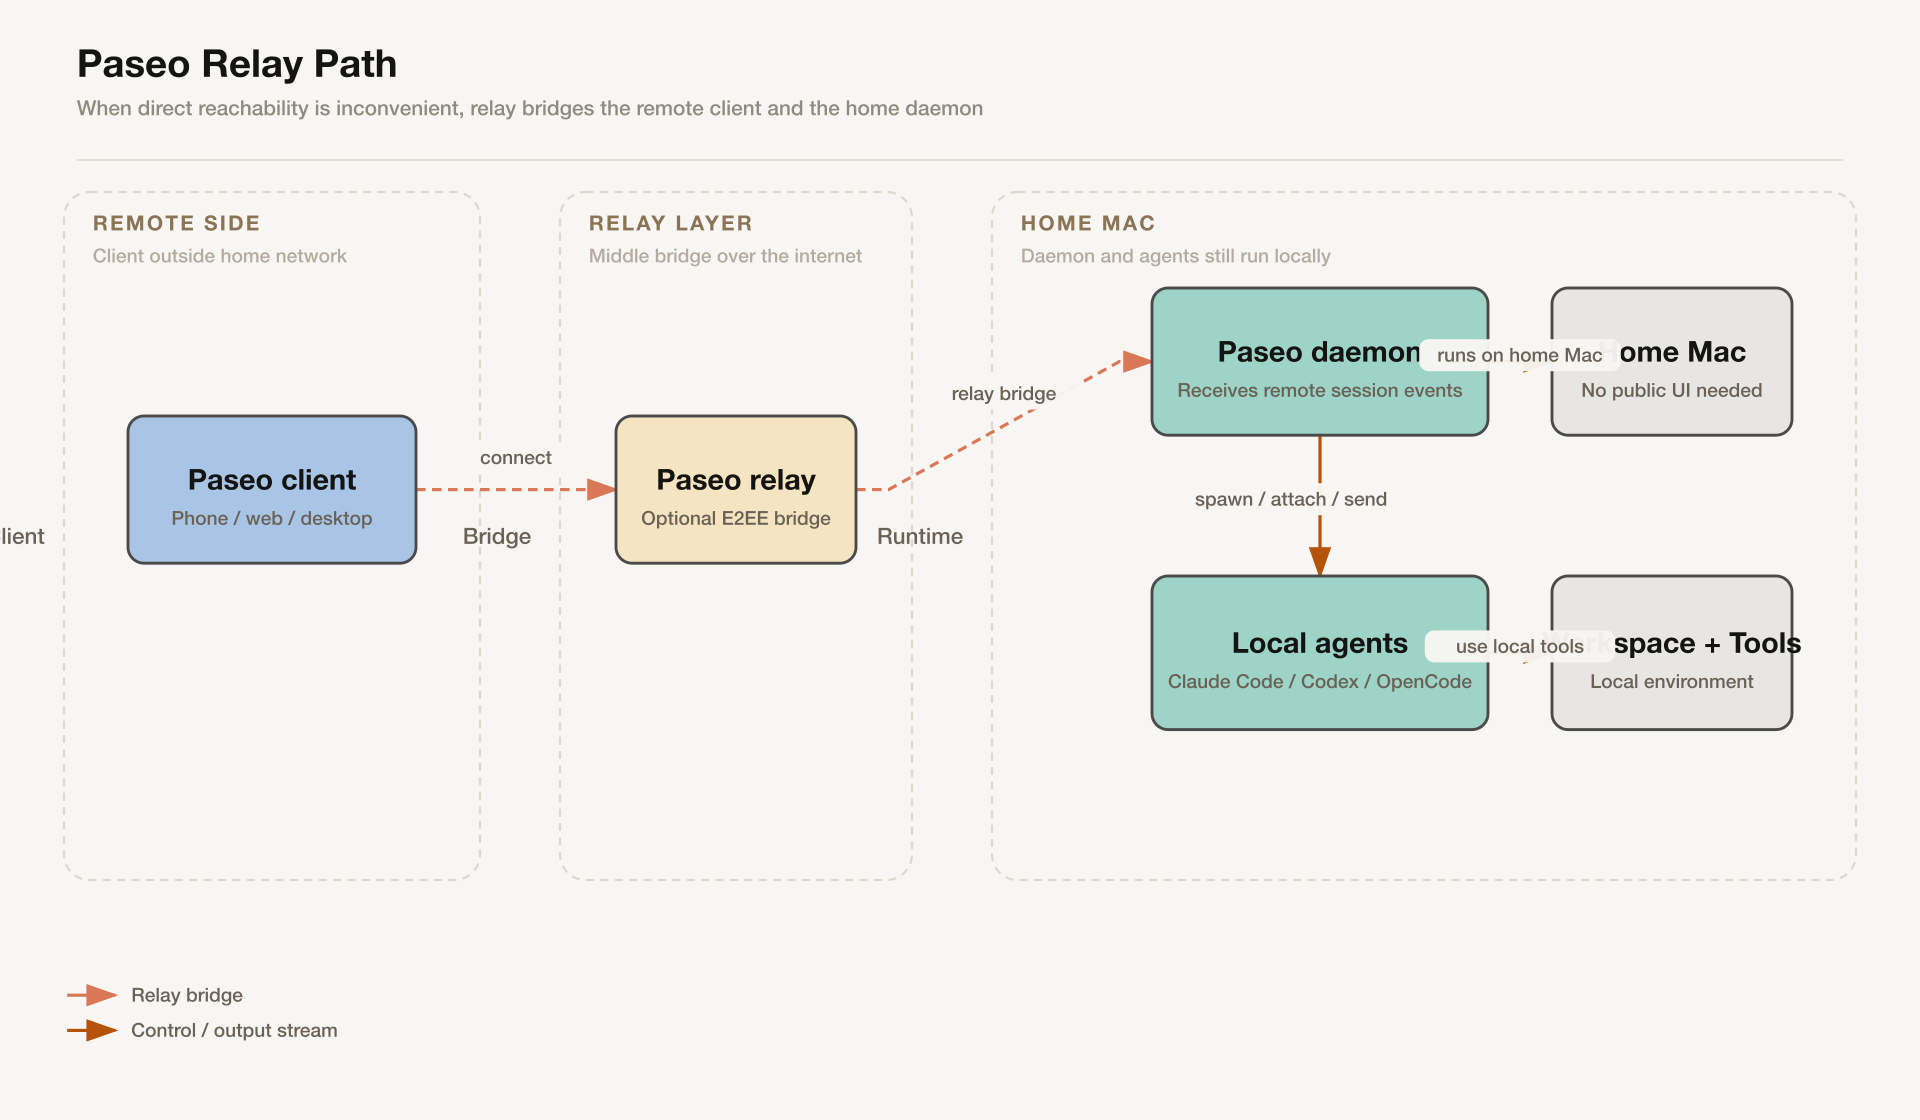
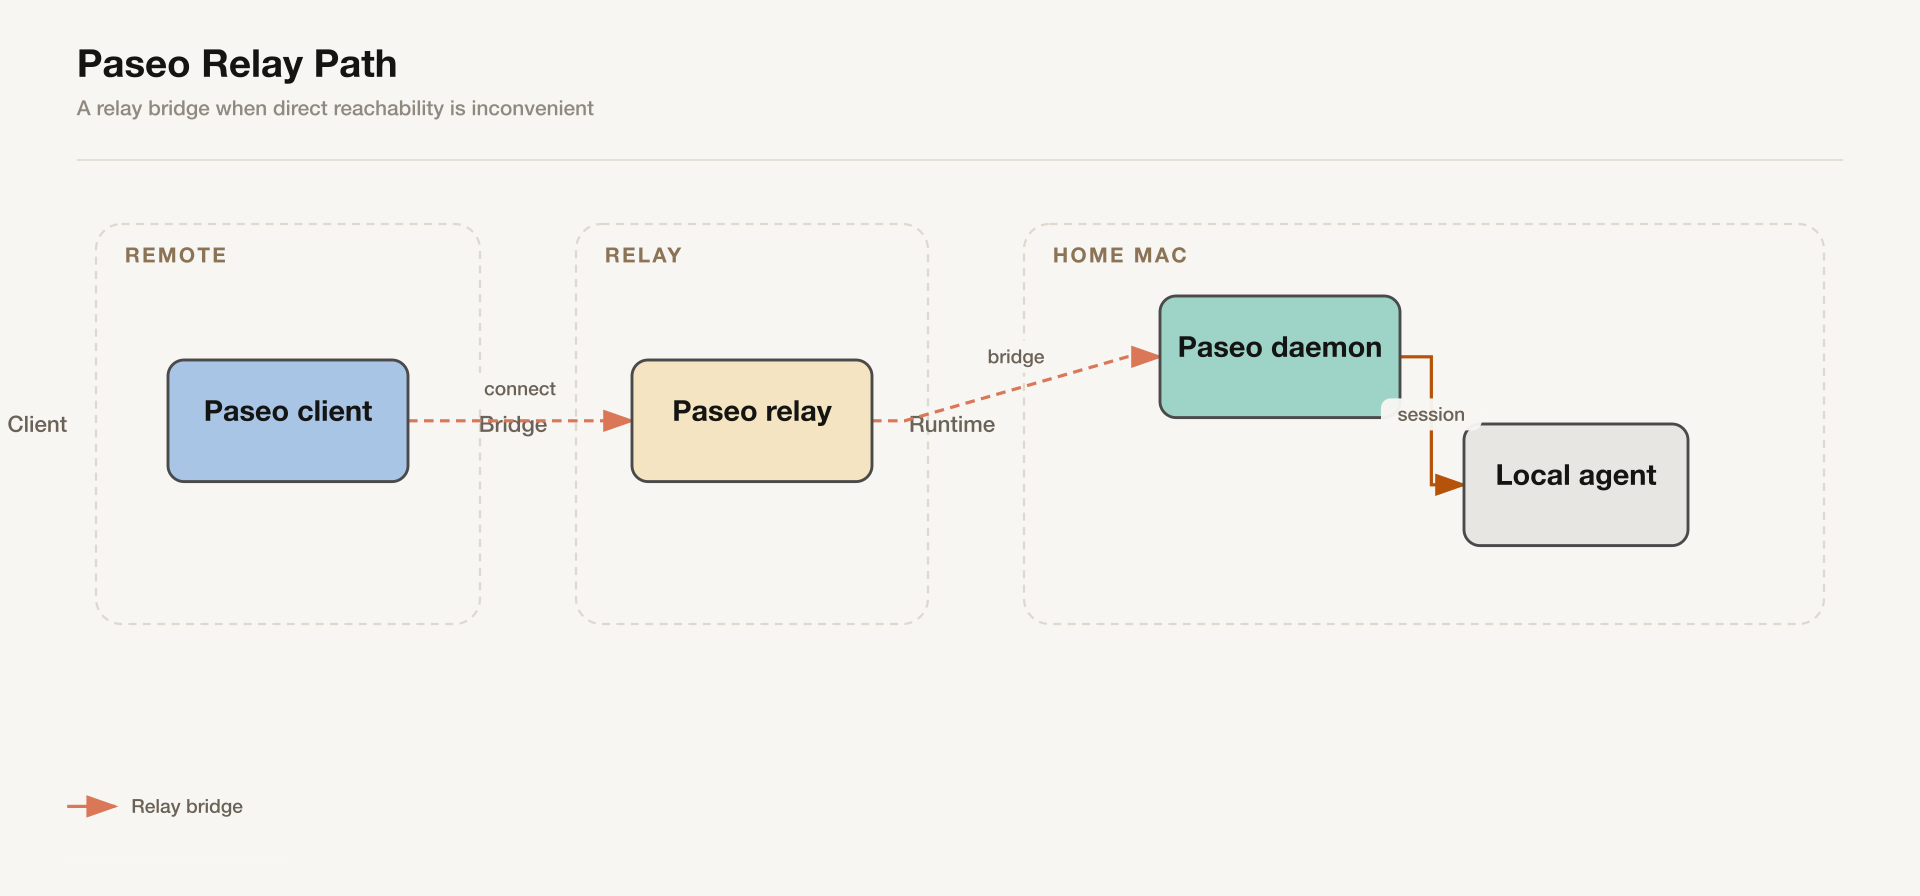
Update: simplify diagram set for remote-home-agent article

diff --git a/2026/04/12/digest-2026-04-12-remote-home-agent-tailscale-paseo/index.html b/2026/04/12/digest-2026-04-12-remote-home-agent-tailscale-paseo/index.html
@@ -44,11 +44,11 @@
 <section id="post-body"><p>这两天集中看了一圈「怎么从外面接入家里那台跑 Agent 的 Mac」这件事，顺手把 <a target="_blank" rel="noopener" href="https://github.com/openclaw/openclaw">OpenClaw</a>、<a target="_blank" rel="noopener" href="https://github.com/getpaseo/paseo">Paseo</a>、<a target="_blank" rel="noopener" href="https://tailscale.com/">Tailscale</a> 和 relay 这些概念捋了一遍。最开始我的问题很朴素：家里机器没有公网 IP，又不想把一堆端口暴露到公网，那么像 <a target="_blank" rel="noopener" href="https://www.anthropic.com/claude-code">Claude Code</a>、<a target="_blank" rel="noopener" href="https://developers.openai.com/codex/cli">Codex</a> 、<a target="_blank" rel="noopener" href="https://opencode.ai/">OpenCode</a> 这种本地跑起来的 coding agent，到底该怎么在手机或外面的电脑上继续接力？</p>
 <p>看完资料之后，我现在的结论比一开始清晰很多：<strong>如果主要是自己远程使用，优先考虑 <a target="_blank" rel="noopener" href="https://tailscale.com/">Tailscale</a> 这类私网方案；如果更看重跨端体验和开箱即用，<a target="_blank" rel="noopener" href="https://github.com/getpaseo/paseo">Paseo</a> 这种“本地 daemon + 远程客户端”的产品形态很有吸引力；而 relay 则是当直连不方便时，中间补上的那一层连接基础设施。</strong></p>
 <p><img src="/images/remote-home-agent-claude-official.png" alt="Tailscale 与 Paseo 远程控制家里 Agent 的总览图（Claude Official 风格）"></p>
-<p><em>图 1：总览图。远程设备通过 Tailscale tailnet 或可选 relay 接入家里的 Mac；Agent 仍然在本地运行，Paseo &#x2F; OpenClaw 负责上层控制。</em></p>
+<p><em>图 1：总览。两条路径：Tailscale 直连，或 Paseo relay 桥接。</em></p>
 <p><img src="/images/tailscale-direct-path-claude-official.png" alt="Tailscale 直连家里 Agent 的链路图（Claude Official 风格）"></p>
-<p><em>图 2：Tailscale 直连链路。远程设备先加入同一个 tailnet，再直接访问家里 Mac 上的 OpenClaw Gateway 或 Paseo daemon。</em></p>
+<p><em>图 2：Tailscale 直连。先加入 tailnet，再直接访问家里的服务。</em></p>
 <p><img src="/images/paseo-relay-path-claude-official.png" alt="Paseo relay 连接家里 Agent 的链路图（Claude Official 风格）"></p>
-<p><em>图 3：Paseo relay 链路。直连不方便时，远程客户端和家里的 Paseo daemon 都连到 relay，由 relay 在中间转发控制与输出流。</em></p>
+<p><em>图 3：Paseo relay。客户端与家里的 daemon 通过 relay 建桥。</em></p>
 <h2 id="一、问题的本质：不是“远程桌面”，而是“远程操控本地-Agent”"><a href="#一、问题的本质：不是“远程桌面”，而是“远程操控本地-Agent”" class="headerlink" title="一、问题的本质：不是“远程桌面”，而是“远程操控本地 Agent”"></a>一、问题的本质：不是“远程桌面”，而是“远程操控本地 Agent”</h2><p>以前说远程控制，默认想到的是 SSH 或远程桌面。但 Agent 时代之后，真正想要的往往不是“远程打开一台电脑”，而是：</p>
 <ul>
 <li>家里那台机器继续保留完整开发环境</li>
